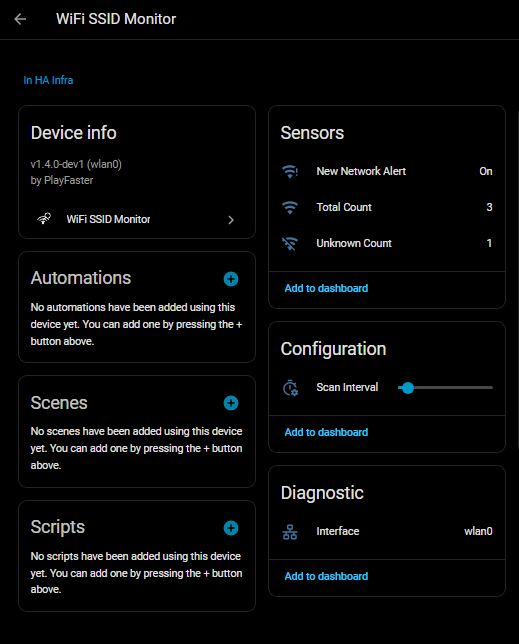
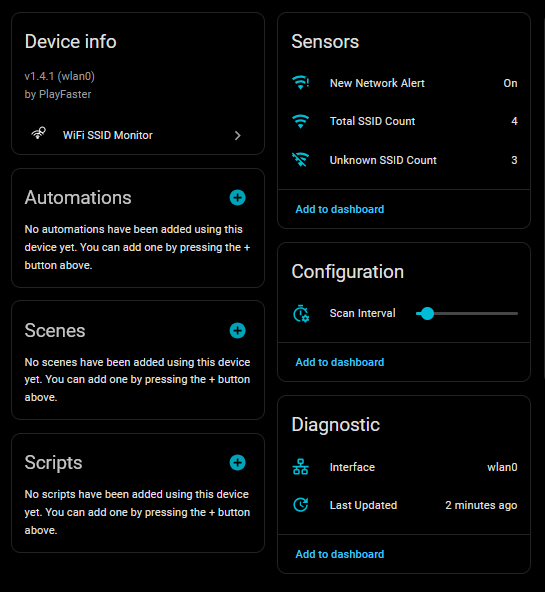
v1.4.1 Under the Hood.

diff --git a/CHANGELOG.md b/CHANGELOG.md
@@ -2,7 +2,7 @@
 
 All notable changes to this project will be documented in this file.
 
-## [1.4.1] - Unreleased
+## [1.4.1] - 2026-04-18
 
 ### Added
 

diff --git a/docs/changelog_local.md b/docs/changelog_local.md
@@ -2,7 +2,7 @@
 
 All notable changes to this project will be documented in this file.
 
-## [1.4.1] - Unreleased
+## [1.4.1] - 2026-04-18
 
 ### Added
 
